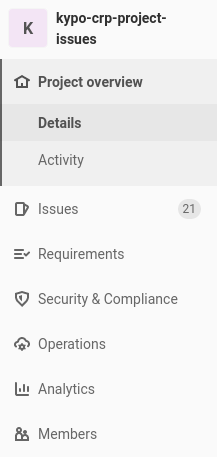
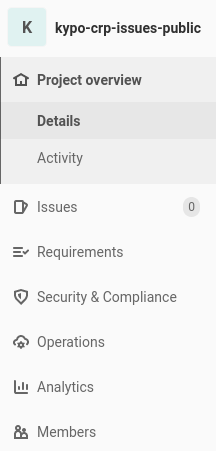
Screenshots updated.

diff --git a/docs/report-bugs.md b/docs/report-bugs.md
@@ -1,4 +1,4 @@
-Reporting bugs is a great way for anyone to help improve the KYPO platform. To report bugs we use the GitLab lightweight issue tracker system in the [kypo-crp-issues-public](https://gitlab.ics.muni.cz/kypo-crp/kypo-crp-project-issues) repository. Before reporting a bug, please consider the following points:
+Reporting bugs is a great way for anyone to help improve the KYPO platform. To report bugs we use the GitLab lightweight issue tracker system in the [kypo-crp-issues-public](https://gitlab.ics.muni.cz/kypo-crp/kypo-crp-issues-public) repository. Before reporting a bug, please consider the following points:
   
   * Read the [FAQ](faq.md) to see if your issue isn't already a well-known question.
   * Ask on the kypo-users first if you’re not sure that what you’re seeing is a bug.
@@ -12,7 +12,7 @@ Reporting bugs is a great way for anyone to help improve the KYPO platform. To r
 A good bug report should be clear and concise without any missing key points. Any lack of clarity may lead to misunderstanding and may slow down the development process as well. Well-written bug reports are incredibly helpful. If you find a bug please create a bug report.
 
 
-  1.  Go to GitLab repository [kypo-crp-issues-public](https://gitlab.ics.muni.cz/kypo-crp/kypo-crp-project-issues).
+  1.  Go to GitLab repository [kypo-crp-issues-public](https://gitlab.ics.muni.cz/kypo-crp/kypo-crp-issues-public).
   2.  In the menu on the left side, click `Issues`.
   ![gitlab-issue-repository-left-menu](img/report-bugs/issues-repository-left-menu.png)
   3.  In the top menu above the list of issues click `New issue`.
@@ -79,5 +79,5 @@ Provide information that doesn't match the previous features, e.g., in short, de
 TODO -- will be there someone who will distribute issues among developers? 
 
 ### Labels 
-Choose `bug` label. 
+Choose the appropriate `bug` label. 
 
